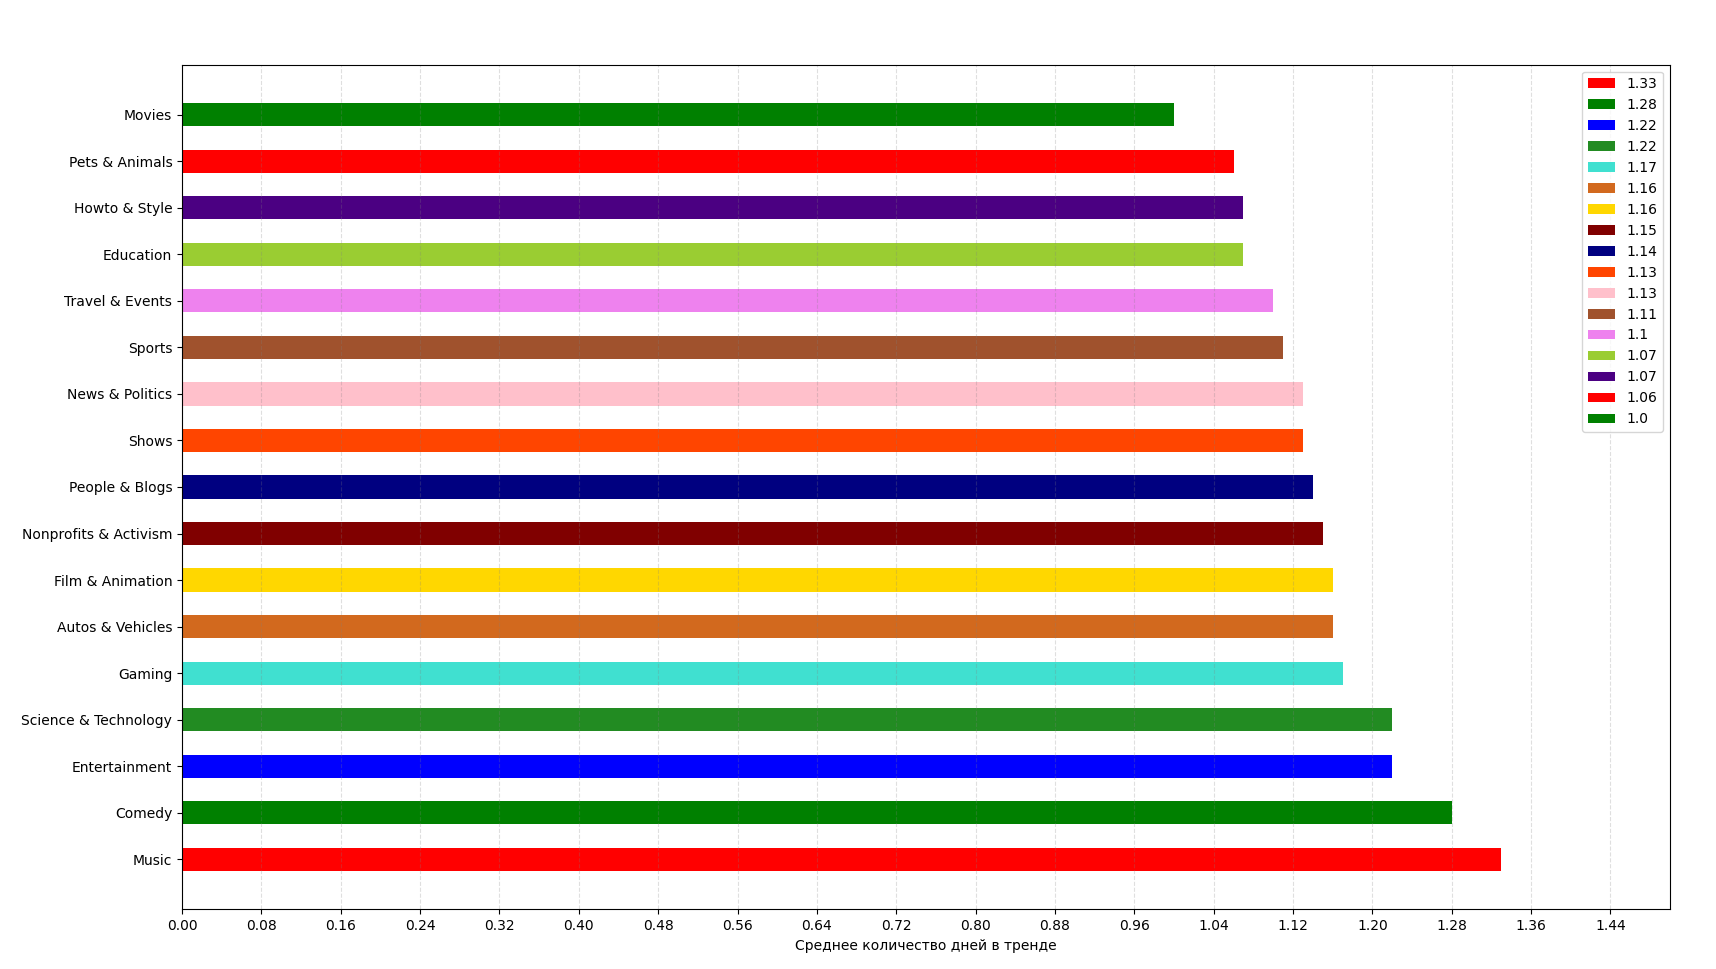
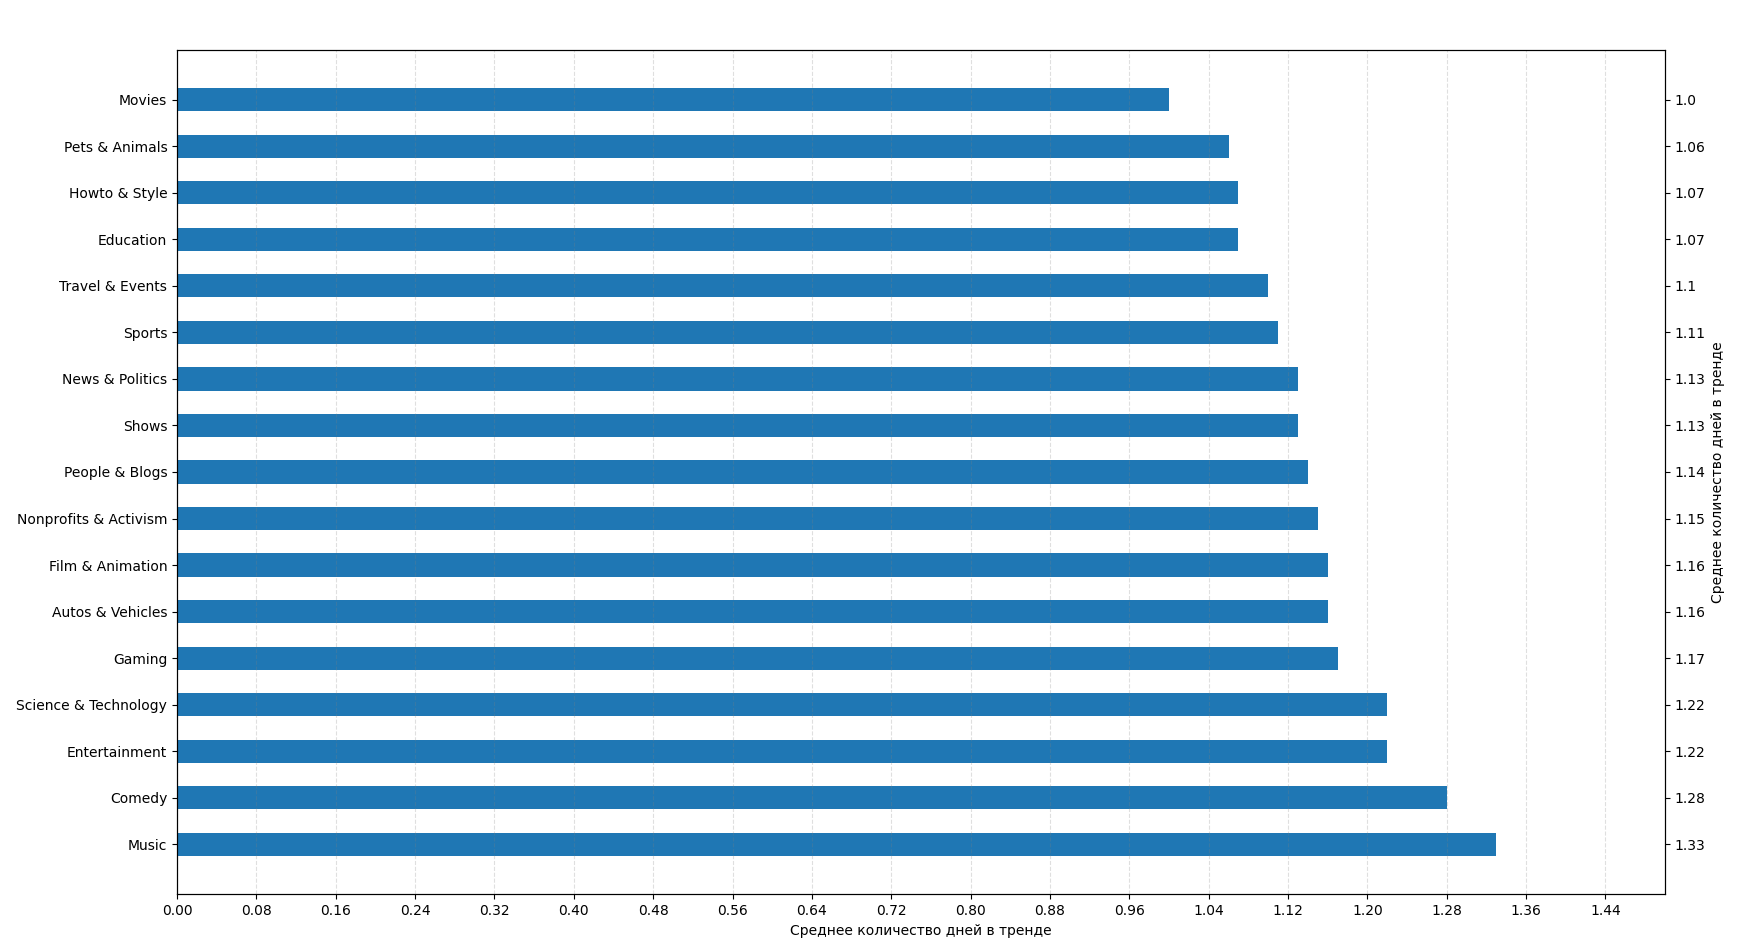
Update images

diff --git a/visualize/main.py b/visualize/main.py
@@ -36,32 +36,32 @@ if __name__ == "__main__":
     # plot_pie_chart(labels, sizes, explode)
 
     # --- BAR CHART ---
-    categories_long_live = youtube_db["categories_long_live"]
-    all_categories_long_live = list(categories_long_live.find({}))
-
-    labels_params = [
-        (elem["category_named"], round(elem["mean"], 2), elem["max"])
-        for elem in all_categories_long_live]
-
-    labels_params.sort(key=lambda elem: elem[1], reverse=True)
-
-    labels_mean = list()
-    sizes_mean = list()
-    for cat_long_live in labels_params:
-        labels_mean.append(cat_long_live[0])
-        sizes_mean.append(cat_long_live[1])
-
-    plot_horiz_bar_chart(labels_mean, sizes_mean, "Среднее количество дней в тренде", 1.5)
-
-    labels_params.sort(key=lambda elem: elem[2], reverse=True)
-
-    labels_max = list()
-    sizes_max = list()
-    for cat_long_live in labels_params:
-        labels_max.append(cat_long_live[0])
-        sizes_max.append(cat_long_live[2])
-
-    plot_horiz_bar_chart(labels_max, sizes_max, "Максимальное количество дней в тренде", 5.5)
+    # categories_long_live = youtube_db["categories_long_live"]
+    # all_categories_long_live = list(categories_long_live.find({}))
+    #
+    # labels_params = [
+    #     (elem["category_named"], round(elem["mean"], 2), elem["max"])
+    #     for elem in all_categories_long_live]
+    #
+    # labels_params.sort(key=lambda elem: elem[1], reverse=True)
+    #
+    # labels_mean = list()
+    # sizes_mean = list()
+    # for cat_long_live in labels_params:
+    #     labels_mean.append(cat_long_live[0])
+    #     sizes_mean.append(cat_long_live[1])
+    #
+    # plot_horiz_bar_chart(labels_mean, sizes_mean, "Среднее количество дней в тренде", 1.5)
+    #
+    # labels_params.sort(key=lambda elem: elem[2], reverse=True)
+    #
+    # labels_max = list()
+    # sizes_max = list()
+    # for cat_long_live in labels_params:
+    #     labels_max.append(cat_long_live[0])
+    #     sizes_max.append(cat_long_live[2])
+    #
+    # plot_horiz_bar_chart(labels_max, sizes_max, "Максимальное количество дней в тренде", 5.5)
 
     # categories_long_live = youtube_db["categories_long_live"]
     # all_categories_long_live = list(categories_long_live.find({}))
@@ -82,46 +82,46 @@ if __name__ == "__main__":
     # plot_long_live_params_chart(labels, params)
 
     # --- VERTICAL BAR CHARTS ---
-    # categories_view_rating = youtube_db["categories_view_rating"]
-    # all_categories_view_rating = list(categories_view_rating.find({}))
-    #
-    # for elem in all_categories_view_rating:
-    #     if elem["category_named"] == "People & Blogs":
-    #         all_categories_view_rating.remove(elem)
-    #         break
-    #
-    # labels_means = [
-    #     (elem["category_named"], elem["ratings_to_views_mean"], elem["likes_to_dislikes_mean"], elem["comments_to_views_mean"])
-    #     for elem in all_categories_view_rating
-    # ]
-    #
-    # labels_means.sort(key=lambda elem: elem[1], reverse=True)
-    # labels_ratings = list()
-    # all_ratings_to_views_mean = list()
-    # for elem in labels_means:
-    #     labels_ratings.append(elem[0])
-    #     all_ratings_to_views_mean.append(elem[1])
-    #
-    # labels_means.sort(key=lambda elem: elem[2], reverse=True)
-    # labels_likes = list()
-    # all_likes_to_dislikes_mean = list()
-    # for elem in labels_means:
-    #     labels_likes.append(elem[0])
-    #     all_likes_to_dislikes_mean.append(elem[2])
-    #
-    # labels_means.sort(key=lambda elem: elem[3], reverse=True)
-    # labels_comments = list()
-    # all_comments_to_views_mean = list()
-    # for elem in labels_means:
-    #     labels_comments.append(elem[0])
-    #     all_comments_to_views_mean.append(elem[3])
+    categories_view_rating = youtube_db["categories_view_rating"]
+    all_categories_view_rating = list(categories_view_rating.find({}))
 
-    # plot_vert_bar_chart(labels_ratings, all_ratings_to_views_mean, "Отношение между оцениванием видео и его просмотров",
-    #                     "Количество оцениваний / количество просмотров")
-    # plot_vert_bar_chart(labels_likes, all_likes_to_dislikes_mean, "Отношение лайков к дизлайкам",
-    #                     "Количество лайков / количество дизлайков")
-    # plot_vert_bar_chart(labels_comments, all_comments_to_views_mean, "Отношение комментируемости видео и его просматриваемости",
-    #                     "Количество комментов / количество просмотр")
+    for elem in all_categories_view_rating:
+        if elem["category_named"] == "People & Blogs":
+            all_categories_view_rating.remove(elem)
+            break
+
+    labels_means = [
+        (elem["category_named"], elem["ratings_to_views_mean"], elem["likes_to_dislikes_mean"], elem["comments_to_views_mean"])
+        for elem in all_categories_view_rating
+    ]
+
+    labels_means.sort(key=lambda elem: elem[1], reverse=True)
+    labels_ratings = list()
+    all_ratings_to_views_mean = list()
+    for elem in labels_means:
+        labels_ratings.append(elem[0])
+        all_ratings_to_views_mean.append(elem[1])
+
+    labels_means.sort(key=lambda elem: elem[2], reverse=True)
+    labels_likes = list()
+    all_likes_to_dislikes_mean = list()
+    for elem in labels_means:
+        labels_likes.append(elem[0])
+        all_likes_to_dislikes_mean.append(elem[2])
+
+    labels_means.sort(key=lambda elem: elem[3], reverse=True)
+    labels_comments = list()
+    all_comments_to_views_mean = list()
+    for elem in labels_means:
+        labels_comments.append(elem[0])
+        all_comments_to_views_mean.append(elem[3])
+
+    plot_vert_bar_chart(labels_ratings, all_ratings_to_views_mean, "Отношение между оцениванием видео и его просмотров",
+                        "Количество оцениваний / количество просмотров")
+    plot_vert_bar_chart(labels_likes, all_likes_to_dislikes_mean, "Отношение лайков к дизлайкам",
+                        "Количество лайков / количество дизлайков")
+    plot_vert_bar_chart(labels_comments, all_comments_to_views_mean, "Отношение комментируемости видео и его просматриваемости",
+                        "Количество комментов / количество просмотр")
 
     # --- TOP CHANNELS ---
     # top_channels = youtube_db["top_channels"]

diff --git a/visualize/horiz_bar_chart.py b/visualize/horiz_bar_chart.py
@@ -7,14 +7,14 @@ from matplotlib.ticker import MaxNLocator
 def plot_horiz_bar_chart(labels, sizes, xlabel, xmaxlim):
     fig, ax = plt.subplots()
 
+    pos = np.arange(len(labels))
+
     rects = ax.barh(
-        np.arange(len(labels)),
+        pos,
         sizes,
         align="center",
         height=0.5,
-        tick_label=labels,
-        color=["red", "green", "blue", "forestgreen", "turquoise", "chocolate", "gold", "maroon", "navy",
-               "orangered", "pink", "sienna", "violet", "yellowgreen", "indigo"])
+        tick_label=labels)
 
     ax.set_xlim([0, xmaxlim])
     ax.xaxis.set_major_locator(MaxNLocator(24))
@@ -22,6 +22,12 @@ def plot_horiz_bar_chart(labels, sizes, xlabel, xmaxlim):
 
     ax.set_xlabel(xlabel)
 
-    plt.legend(rects, sizes)
+    ax_right = ax.twinx()
+    ax_right.set_yticks(pos)
+    ax_right.set_ylim(ax.get_ylim())
+    ax_right.set_yticklabels(sizes)
+    ax_right.set_ylabel(xlabel)
+
+    # plt.legend(rects, sizes)
 
     plt.show()

diff --git a/visualize/vert_bar_chart.py b/visualize/vert_bar_chart.py
@@ -3,9 +3,19 @@ import matplotlib.pyplot as plt
 
 
 def plot_vert_bar_chart(labels, sizes, title, xlabel):
+    fig, ax = plt.subplots()
     y_pos = np.arange(len(labels))
-    plt.barh(y_pos, sizes, align="center", alpha=.5)
-    plt.yticks(y_pos, labels)
-    plt.xlabel(xlabel)
+    ax.barh(y_pos, sizes, align="center", alpha=.5)
+    ax.set_yticks(y_pos, labels)
+    ax.set_xlabel(xlabel)
+
+    sizes = [round(size, 3) for size in sizes]
+
+    ax_right = ax.twinx()
+    ax_right.set_yticks(y_pos)
+    ax_right.set_ylim(ax.get_ylim())
+    ax_right.set_yticklabels(sizes)
+    ax_right.set_ylabel(xlabel)
+
     plt.title(title)
     plt.show()
